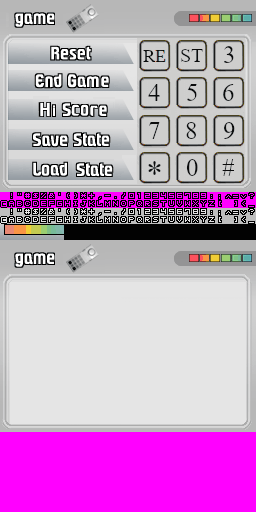
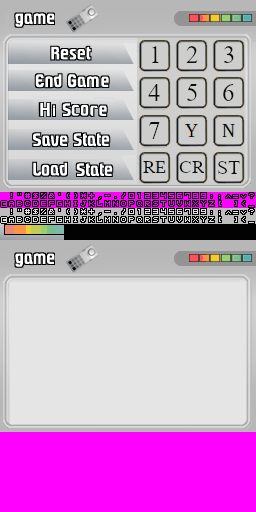
Improved CreatiVision to handle up to 32K linear ROM loading and improved CreatiVision overlay.

diff --git a/arm9/source/colecomngt.c b/arm9/source/colecomngt.c
@@ -615,7 +615,7 @@ u8 loadrom(const char *path,u8 * ptr, int nmemb)
                 memcpy(RAM_Memory+0x9000, ROM_Memory, romSize);
                 memcpy(RAM_Memory+0xB000, ROM_Memory, romSize);
             }
-            if (romSize == 1024 * 6) // 6K
+            else if (romSize == 1024 * 6) // 6K
             {
                 memcpy(RAM_Memory+0xB000, ROM_Memory+0x0000, 0x1000);   // main 4k at 0xB000
                 memcpy(RAM_Memory+0xA800, ROM_Memory+0x1000, 0x0800);   // main 2k at 0xA800
@@ -625,12 +625,12 @@ u8 loadrom(const char *path,u8 * ptr, int nmemb)
                 memcpy(RAM_Memory+0x8800, RAM_Memory+0xA800, 0x0800);   // Mirror 2k
                 memcpy(RAM_Memory+0x8000, RAM_Memory+0xA800, 0x0800);   // Mirror 2k
             }
-            if (romSize == 8192) // 8K
+            else if (romSize == 8192) // 8K
             {
                 memcpy(RAM_Memory+0x8000, ROM_Memory, romSize);
                 memcpy(RAM_Memory+0xA000, ROM_Memory, romSize);
             }
-            if (romSize == 1024 * 10) // 10K
+            else if (romSize == 1024 * 10) // 10K
             {
                 memcpy(RAM_Memory+0xA000, ROM_Memory+0x0000, 0x2000);    // main 8Kb	at 0xA000
                 memcpy(RAM_Memory+0x7800, ROM_Memory+0x2000, 0x0800);    // second 2Kb at 0x7800
@@ -645,33 +645,37 @@ u8 loadrom(const char *path,u8 * ptr, int nmemb)
                 memcpy(RAM_Memory+0x4800, RAM_Memory+0x7800, 0x0800);   // Mirror 2k
                 memcpy(RAM_Memory+0x4000, RAM_Memory+0x7800, 0x0800);   // Mirror 2k
             }
-            if (romSize == 1024 * 12) // 12K
+            else if (romSize == 1024 * 12) // 12K
             {
-                memcpy(RAM_Memory+0xA000, ROM_Memory+0x0000, 0x2000);    // main 8Kb	at 0xA000
-                memcpy(RAM_Memory+0x7000, ROM_Memory+0x2000, 0x1000);    // second 4Kb at 0x7000
+                memcpy(RAM_Memory+0xA000, ROM_Memory+0x0000, 0x2000);   // main 8Kb	at 0xA000
+                memcpy(RAM_Memory+0x7000, ROM_Memory+0x2000, 0x1000);   // second 4Kb at 0x7000
                 memcpy(RAM_Memory+0x8000, RAM_Memory+0xA000, 0x2000);   // Mirror 8k at 0x8000
                 memcpy(RAM_Memory+0x5000, RAM_Memory+0x7000, 0x1000);   // Mirror 4k at 0x5000
                 memcpy(RAM_Memory+0x6000, RAM_Memory+0x7000, 0x1000);   // Mirror 4k at 0x6000
                 memcpy(RAM_Memory+0x4000, RAM_Memory+0x7000, 0x1000);   // Mirror 4k at 0x4000
             }
-            if (romSize == 1024 * 16) // 16K
+            else if (romSize == 1024 * 16) // 16K
             {
                 memcpy(RAM_Memory+0xA000, ROM_Memory+0x0000, 0x2000);    // main 8Kb	at 0xA000
                 memcpy(RAM_Memory+0x8000, ROM_Memory+0x2000, 0x2000);    // second 8Kb at 0x8000
             }
-            if (romSize == 1024 * 18) // 18K
+            else if (romSize == 1024 * 18) // 18K
             {
                 memcpy(RAM_Memory+0xA000, ROM_Memory+0x0000, 0x2000);    // main 8Kb at 0xA000
                 memcpy(RAM_Memory+0x8000, ROM_Memory+0x2000, 0x2000);    // second 8Kb at 0x8000
                 memcpy(RAM_Memory+0x7800, ROM_Memory+0x4000, 0x0800);    // final 2Kb at 0x7800
                 
-                memcpy(RAM_Memory+0x6800, RAM_Memory+0x7800, 0x0800);   // And then the odd mirrors...
+                memcpy(RAM_Memory+0x6800, RAM_Memory+0x7800, 0x0800);    // And then the odd mirrors...
                 memcpy(RAM_Memory+0x5800, RAM_Memory+0x7800, 0x0800);
                 memcpy(RAM_Memory+0x4800, RAM_Memory+0x7800, 0x0800);
                 memcpy(RAM_Memory+0x7000, RAM_Memory+0x7800, 0x0800);
                 memcpy(RAM_Memory+0x6000, RAM_Memory+0x7800, 0x0800);
                 memcpy(RAM_Memory+0x5000, RAM_Memory+0x7800, 0x0800);
                 memcpy(RAM_Memory+0x4000, RAM_Memory+0x7800, 0x0800);
+            }
+            else if (romSize <= 1024 * 32) // 32K or less (load Linear at 0xC000 - romSize)
+            {
+                memcpy(RAM_Memory+(0xC000-romSize), ROM_Memory+0x0000, romSize);    // load linear at 4000-BFFF
             }
         }
         else

diff --git a/arm9/source/creativision.c b/arm9/source/creativision.c
@@ -93,6 +93,9 @@ void creativision_input(void)
     
     KEYTBL[14] = 0xFF;
     KEYTBL[13] = 0xFF;
+    KEYTBL[11] = 0xFF;
+    KEYTBL[7]  = 0xFF;
+    
     if (JoyState & JST_FIREL)   KEYTBL[14] &= 0x7f;  // P1 Right Button
     if (JoyState & JST_FIRER)   KEYTBL[13] &= 0x7f;  // P1 Left Button
 
@@ -101,12 +104,20 @@ void creativision_input(void)
     if (JoyState & JST_LEFT)    KEYTBL[14] &= 0xdf;  // P1 left
     if (JoyState & JST_RIGHT)   KEYTBL[14] &= 0xfb;  // P1 right
 
-    if (JoyState == JST_1)      Int6502(&m6502, INT_NMI);   // Game Reset (note, this is needed to start games)
+    if (JoyState == JST_1)      KEYTBL[14] &= 0xf3;  // 1      
     if (JoyState == JST_2)      KEYTBL[13] &= 0xcf;  // 2
     if (JoyState == JST_3)      KEYTBL[13] &= 0x9f;  // 3
+    if (JoyState == JST_4)      KEYTBL[13] &= 0xd7;  // 4
+    if (JoyState == JST_5)      KEYTBL[13] &= 0xb7;  // 5
+    if (JoyState == JST_6)      KEYTBL[13] &= 0xaf;  // 6
+
+    if (JoyState == JST_7)      KEYTBL[11] &= 0xf3;  // SPACE
+    if (JoyState == JST_8)      KEYTBL[7]  &= 0xfa;  // Y
+    if (JoyState == JST_9)      KEYTBL[7]  &= 0xaf;  // N
+    if (JoyState == JST_0)      KEYTBL[7]  &= 0xf6;  // RETURN
     
-    if (JoyState == JST_POUND)  KEYTBL[7]  &= 0xf6; else KEYTBL[7]  |= ~0xF6; // RETURN
-    if (JoyState == JST_STAR)   KEYTBL[11] &= 0xf3; else KEYTBL[11] |= ~0xF3; // SPACE
+    if (JoyState == JST_STAR)   Int6502(&m6502, INT_NMI);   // Game Reset (note, this is needed to start games)
+    if (JoyState == JST_POUND)  KEYTBL[7] &= 0xed;          // 0 but graphic shows ST=START
 }
 
 // ========================================================================================
